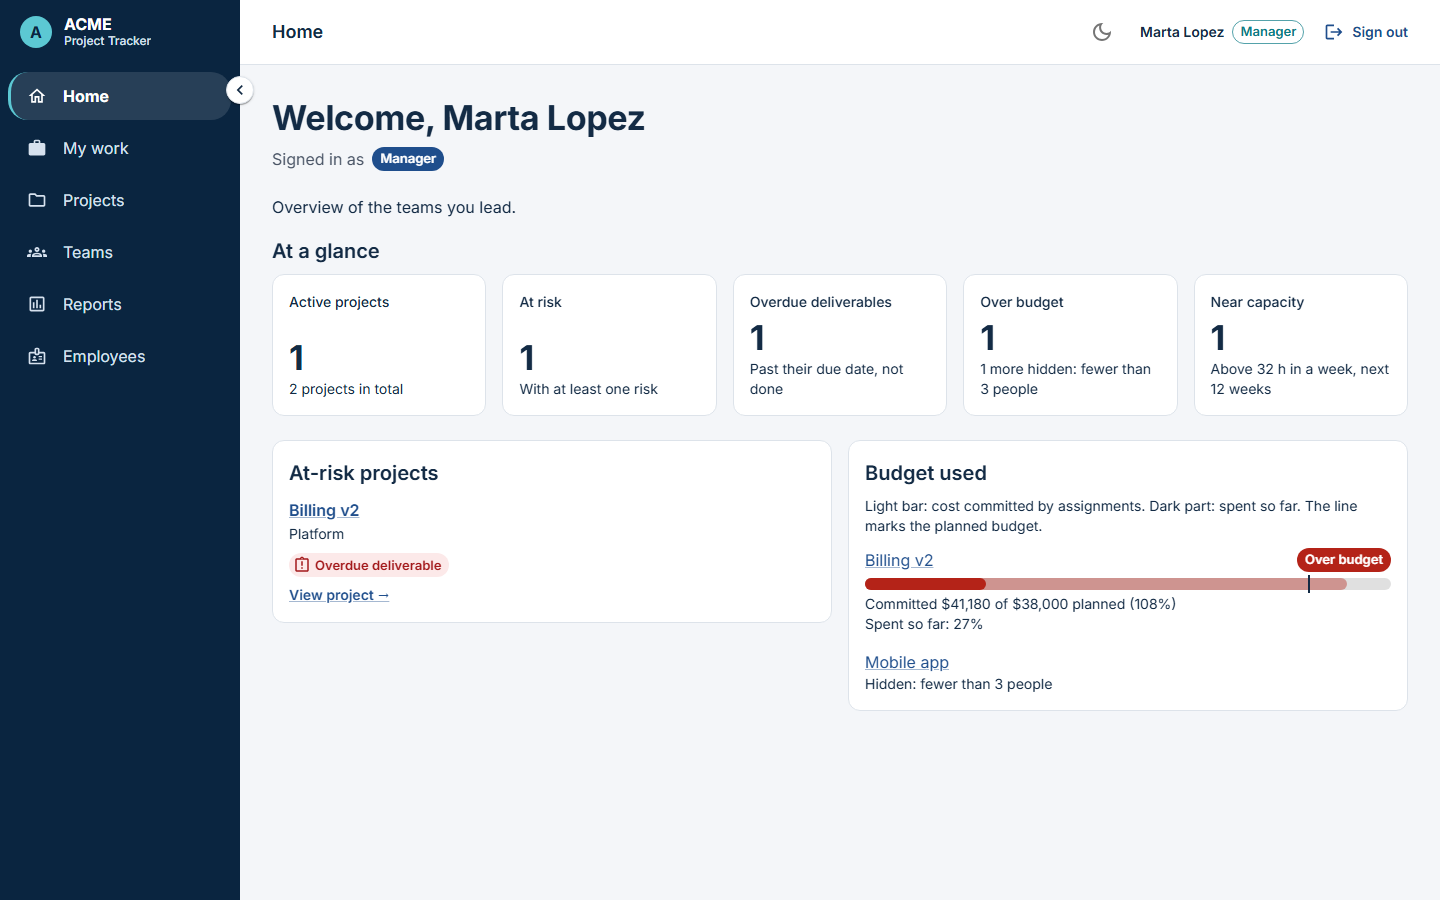
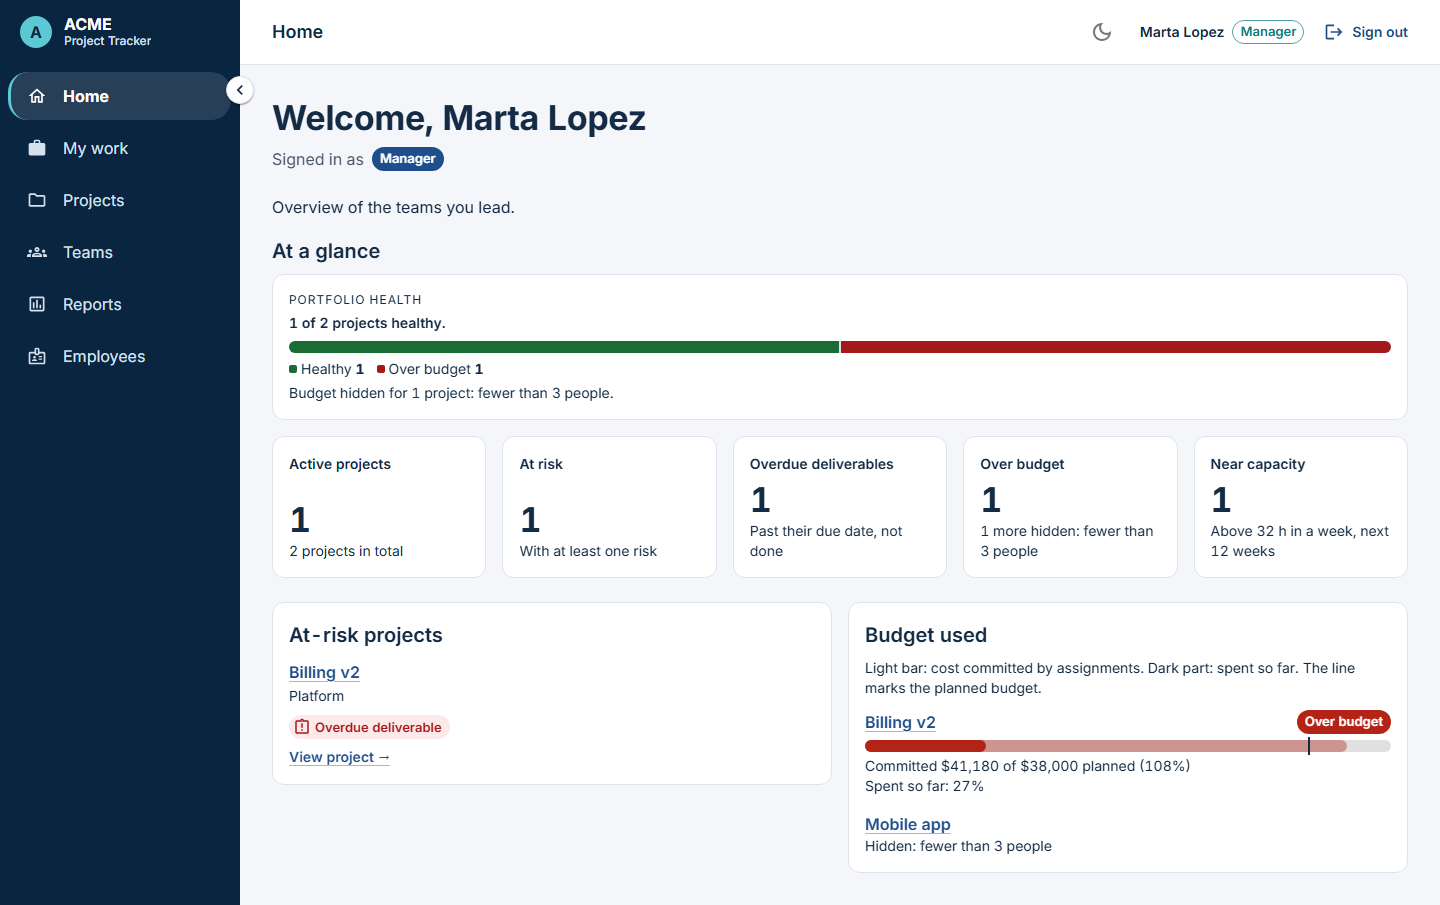
Docs: new curated screenshots, real test numbers, health strip in the demo script

diff --git a/README.md b/README.md
@@ -30,18 +30,21 @@ Taken with the seeded demo data on October 14, 2026 (`docs/screenshots/final/`).
 
 | | |
 |---|---|
-| ![Admin Home: five clickable cards, at-risk projects, budget bars](docs/screenshots/final/02-admin-home.png) | ![A project page: the shared budget bar in the header, per-person costs masked](docs/screenshots/final/06-project-budget-bar.png) |
-| Admin Home. Every card is a link to the detail. | Project page. The budget bar says committed against planned and spent so far; per-person costs stay masked until the eye is clicked. |
-| ![Employee Home: one-line summary and four cards](docs/screenshots/final/04-employee-home.png) | ![Reports, Resources: the hours heat-map](docs/screenshots/final/08-reports-heatmap.png) |
-| Employee Home: the coming weeks in one line, then cards that lead to My work and the projects. | Reports, Resources: hours per person per week. |
-| ![Dependencies timeline with the longest chain outlined](docs/screenshots/final/07-dependencies-timeline.png) | ![Employees with salaries masked](docs/screenshots/final/09-employees-masked-salary.png) |
-| The Dependencies tab: a timeline with the longest chain outlined. | Employees (admin): salaries masked until asked for. |
+| ![Admin Home: portfolio health bar, five clickable cards, at-risk projects, budget bars](docs/screenshots/final/02-admin-home.png) | ![A project page: the health strip with budget, schedule and people tiles](docs/screenshots/final/06-project-health-strip.png) |
+| Admin Home. Portfolio health counts each project once; every card is a link to the detail. | Project page. The health strip: budget (committed against planned, spent so far), schedule by status, and who is on it this week. It updates as soon as an assignment or deliverable changes. |
+| ![Deliverables tab with status stripes and due chips](docs/screenshots/final/07-deliverables-tab.png) | ![People tab with avatars and hours against the 40 h limit](docs/screenshots/final/08-people-tab.png) |
+| Deliverables: a status stripe per row and "Due in 28 days" / "3 days overdue" chips. | People: hours per week against the 40 h limit; per-person costs stay masked until the eye is clicked. |
+| ![Projects as cards](docs/screenshots/final/05-projects-cards.png) | ![Teams as cards with lead and member avatars](docs/screenshots/final/09-teams.png) |
+| Projects as cards (the table is the default; the choice is remembered). | Teams with their lead and members. |
+| ![Reports, Project status with a status bar per project](docs/screenshots/final/10-reports-status.png) | ![Employee Home: one-line summary with a sparkline, and four cards](docs/screenshots/final/04-employee-home.png) |
+| Reports, Project status: done, in progress and not started per project. | Employee Home: the coming weeks in one line and a sparkline, then cards that lead to My work and the projects. |
 
 More: [sign-in](docs/screenshots/final/01-login.png), [manager Home](docs/screenshots/final/03-manager-home.png),
-[Projects](docs/screenshots/final/05-projects.png), [phone](docs/screenshots/final/10-phone-home.png),
-[dark mode](docs/screenshots/final/11-dark-home.png), [empty state for someone with no work](docs/screenshots/final/12-empty-state-hal.png),
-[a manager's hidden small-group budget](docs/screenshots/final/13-manager-budget-hidden.png).
-`npm run e2e` also saves every page for every demo account under `docs/screenshots/<account>/`.
+[hours heat-map](docs/screenshots/final/11-reports-heatmap.png), [dependencies timeline](docs/screenshots/final/12-dependencies-timeline.png),
+[employees with salaries masked](docs/screenshots/final/13-employees-masked-salary.png), [phone](docs/screenshots/final/14-phone-project.png),
+[dark mode](docs/screenshots/final/15-dark-project.png), [empty state for someone with no work](docs/screenshots/final/16-empty-state-hal.png),
+[a manager's hidden small-group budget](docs/screenshots/final/17-manager-budget-hidden.png).
+`npm run e2e` also saves every page for every demo account under `docs/screenshots/<account>/` (not committed).
 
 ## What it does, by role
 
@@ -207,9 +210,9 @@ Last full run on this laptop, October 14, 2026 (all from that run):
 | Check | Result |
 |---|---|
 | Backend, `pytest` | 739 passed, 99.01% coverage |
-| Frontend, `npm run coverage` (Vitest) | 425 passed in 35 files; 96.02% statements, 91.64% branches, 96.08% functions, 96.87% lines |
+| Frontend, `npm run coverage` (Vitest) | 459 passed in 37 files; 95.97% statements, 90.72% branches, 96.2% functions, 97.09% lines |
 | `npm run lint` | No problems |
-| `npm run build` | Built; main bundle 422.72 kB (137.47 kB gzipped) |
+| `npm run build` | Built; main bundle 423.75 kB (137.82 kB gzipped) |
 | End-to-end, Playwright (`e2e/01-pages`, `e2e/02-flows`) | 11 passed |
 | Role smoke, `scripts/smoke_roles.py` | 11 passed, 0 failed |
 

diff --git a/docs/demo-script.md b/docs/demo-script.md
@@ -8,12 +8,20 @@ Use a desktop window at least 1280 px wide.
 
 Sign in as `admin@acme-demo.test`.
 
-1. **Home.** Say: "Five cards, each one a link." Point at **At risk 2** and **Over budget 1**.
+1. **Home.** Point at the **Portfolio health** bar: "1 of 3 projects healthy", one at risk, one over budget,
+   each project counted once. Say: "Five cards under it, each one a link." Point at **At risk 2** and
+   **Over budget 1**.
 2. Click the **At risk** card. Reports opens on the **At risk** tab: Billing v2 (overdue deliverable,
    over budget) and Data lake (a dependency starts before its date).
-3. Click **Billing v2**. In the header, the budget bar: **Over budget**, "Committed $41,180 of $38,000
-   planned (108%)", "Spent so far: 27%". Say: "The light bar is what the assignments commit, the dark
-   part is what is spent so far, the line is the plan."
+3. Click **Billing v2**. The **health strip** under the title has three tiles:
+   - **Budget**: **Over budget**, "Committed $41,180 of $38,000 planned (108%)", "Spent so far: 27%".
+     Say: "The light bar is what the assignments commit, the dark part is what is spent so far, the
+     line is the plan."
+   - **Schedule**: "1 of 5 done, 1 overdue, 2 blocked", with a bar and every count in words.
+   - **People**: four avatars and "4 people, 70 h this week".
+   Click the **People** tab and change Ana's hours from 30 to 20 in place: the Budget tile says
+   "Updating..." and its numbers drop at once, no reload. Put it back to 30. (Employees see Schedule
+   and People only, never a budget tile.)
 4. Click the **Dependencies** tab: the timeline, longest chain outlined, the red line is today.
 5. Click **Employees** in the sidebar. Salaries show `$ ••••••`. Click the eye **Show salary for Ana
    Silva**: `$124,800.00`. Say: "Masked by default against shoulder-surfing; it hides again after 30
@@ -29,8 +37,8 @@ Sign out.
 
 Sign in as `marta@acme-demo.test`.
 
-1. **Small groups are hidden.** Click **Projects**, then **Mobile app**. The header says "Hidden: fewer
-   than 3 people". Click the **Budget** tab: "Totals are hidden because fewer than 3 people are in this
+1. **Small groups are hidden.** Click **Projects**, then **Mobile app**. The Budget tile of the health
+   strip says "Hidden: fewer than 3 people". Click the **Budget** tab: "Totals are hidden because fewer than 3 people are in this
    group, so they could reveal someone’s pay." The planned budget ($12,000.00) is still shown.
 2. **The 40-hour limit.** Still on Mobile app, click **People**, then **Assign person**. Person: **Bo
    Chen**. Hours per week: **25**. Start date: the Monday two weeks from now; end date: the Sunday of the
